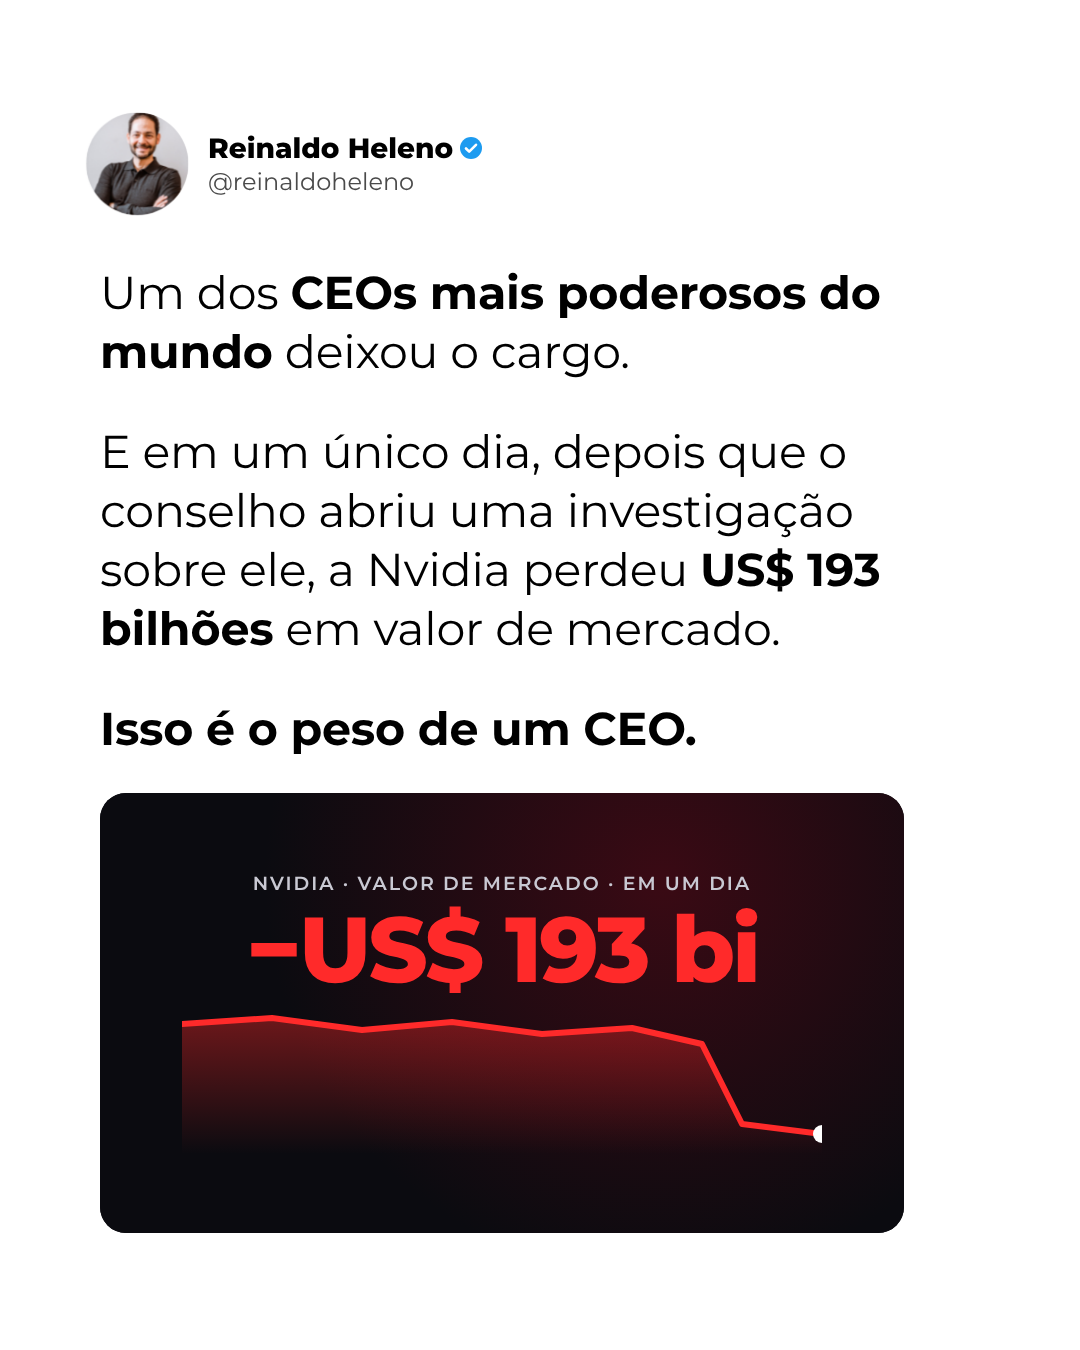
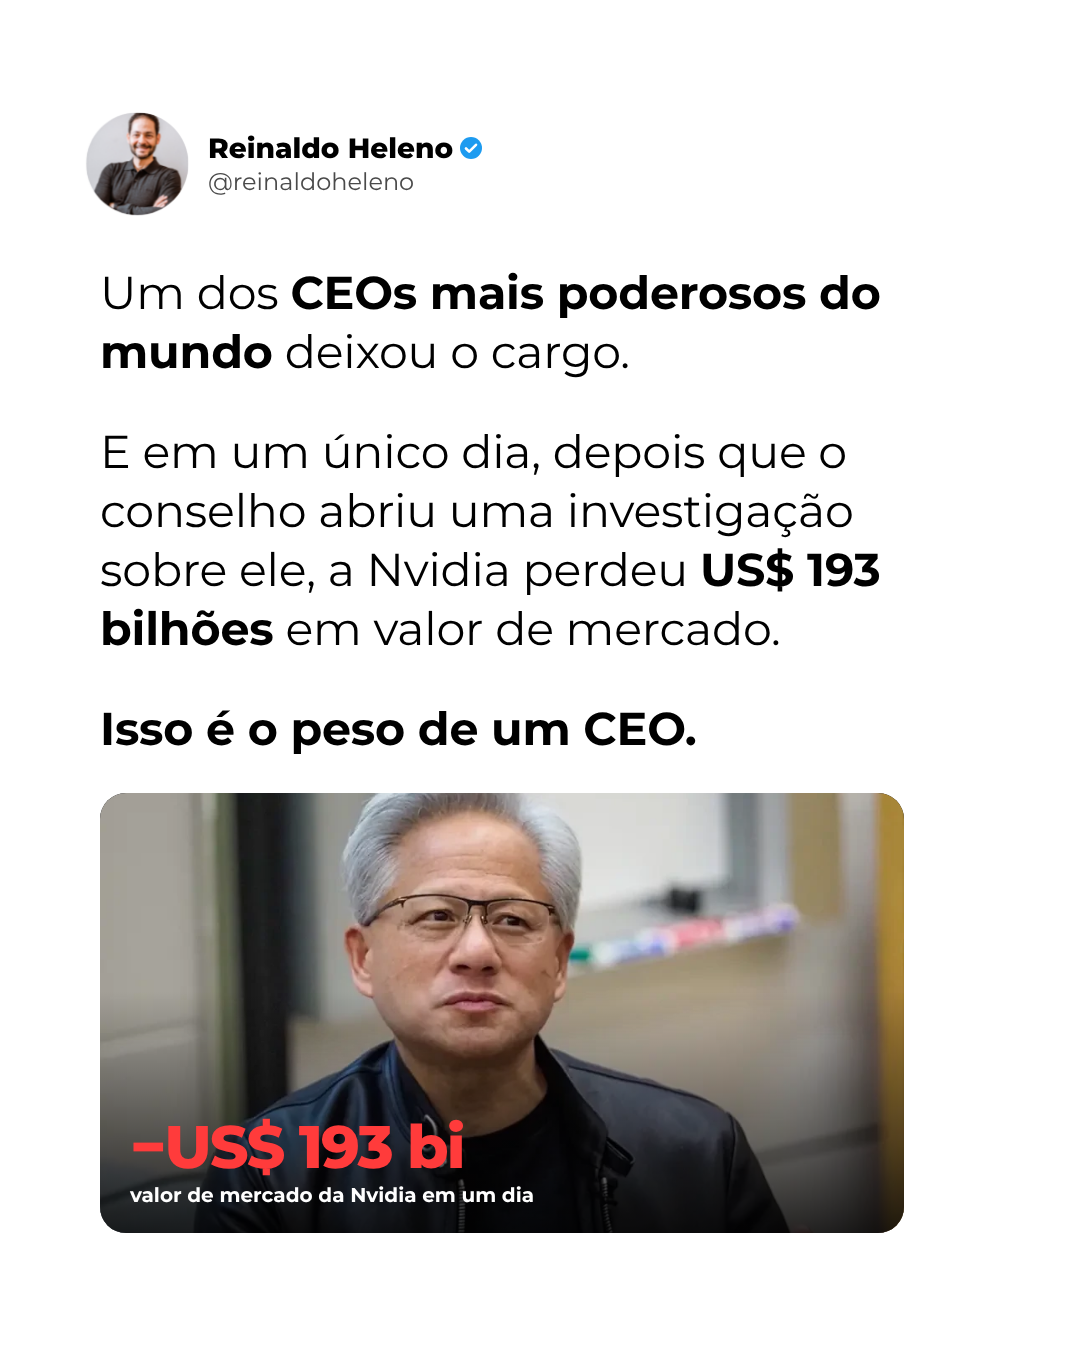
CEO carousel: use real photos on slides 1, 2 and 4
Claude-Session: https://claude.ai/code/session_01NRnk7HWMxf9Gtx6UxkYWpr

Changed region(s): [[0.0917, 0.56, 0.8556, 0.9333]]

diff --git a/carrossel-ceo/build2.py b/carrossel-ceo/build2.py
@@ -43,6 +43,16 @@ V7=V_STYLE+f"""<div class="v" style="flex-direction:column;gap:20px;padding:20px
 <div style="display:flex;gap:12px">{''.join(pill(x) for x in ['Imagem','Decisões','Relação com marcas'])}</div></div>"""
 V8=f'<img src="file://{B}/img/oneprofile.png" style="width:100%;display:block">'
 
+
+def photo(f,pos,overlay=''):
+    return f"""<div style="position:absolute;inset:0;background:url('file://{B}/img/{f}') {pos}/cover"></div>{overlay}"""
+GRAD='<div style="position:absolute;inset:0;background:linear-gradient(180deg,rgba(0,0,0,0) 45%,rgba(0,0,0,.82) 100%)"></div>'
+def badge(big,small): return f'<div style="position:absolute;left:30px;bottom:26px;color:#fff;font-family:Montserrat"><div style="font-size:60px;font-weight:800;letter-spacing:-2px;color:#ff3b3b;line-height:1">{big}</div><div style="font-size:20px;font-weight:700;margin-top:6px">{small}</div></div>'
+V1=photo('jensen1.png','center 22%',GRAD+badge('−US$ 193 bi','valor de mercado da Nvidia em um dia'))
+def sx(n,t): return f'<div><div style="font-size:42px;font-weight:800;color:#ff3b3b;line-height:1">{n}</div><div style="font-size:17px;font-weight:700;margin-top:4px">{t}</div></div>'
+V2=photo('jensen2.png','center 20%',GRAD+f'<div style="position:absolute;left:30px;right:30px;bottom:24px;color:#fff;font-family:Montserrat;display:flex;gap:44px">{sx("63","anos")}{sx("1993","cofundou a Nvidia")}{sx("33 anos","como único CEO")}</div>')
+V4=photo('nvidia.png','center 55%','<div style="position:absolute;inset:0;background:linear-gradient(0deg,rgba(0,0,0,0) 50%,rgba(0,0,0,.8) 100%)"></div>'+badge('−US$ 193 bi','em um dia · 9/11 · Forbes').replace('bottom:26px','top:24px'))
+
 page2(1,"Um dos <b>CEOs mais poderosos do mundo</b> deixou o cargo."+G+"E em um único dia, depois que o conselho abriu uma investigação sobre ele, a Nvidia perdeu <b>US$ 193 bilhões</b> em valor de mercado."+G+"<b>Isso é o peso de um CEO.</b>",46,V1)
 page2(2,"<b>Jensen Huang</b>, 63 anos, cofundou a Nvidia em 1993 e foi seu único CEO em 33 anos."+G+"Em 8 de novembro, o conselho abriu uma <b>investigação independente</b> após reportagens de que ele teria sido alvo de uma operação de inteligência estrangeira. No mesmo dia, Huang admitiu em e-mail aos funcionários um relacionamento extraconjugal."+G+"A mulher é executiva de uma empresa parceira da Nvidia em Singapura e, segundo autoridades americanas, é apontada como ligada à inteligência chinesa.",34,V2)
 page2(3,"<b>10/11:</b> a Nvidia contrata o escritório Wachtell, Lipton, Rosen & Katz para conduzir a investigação."+G+"<b>11/11:</b> novos relatos apontam um segundo relacionamento, com uma executiva da própria Nvidia que se reportava a ele."+G+"<b>12/11:</b> Huang deixa o comando da empresa. A diretora financeira, Colette Kress, assume como CEO interina."+G+"Huang negou ter comprometido a segurança nacional ou segredos da Nvidia.",38,V3)
